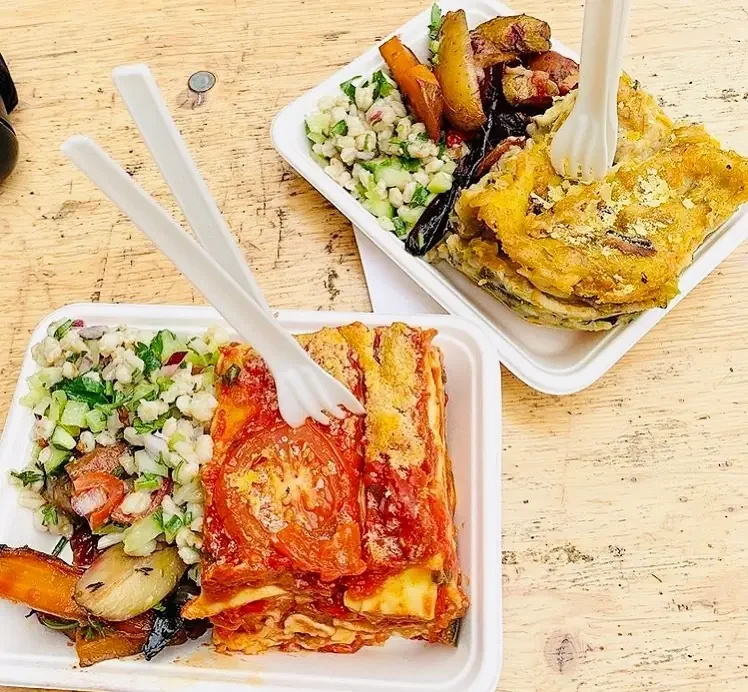
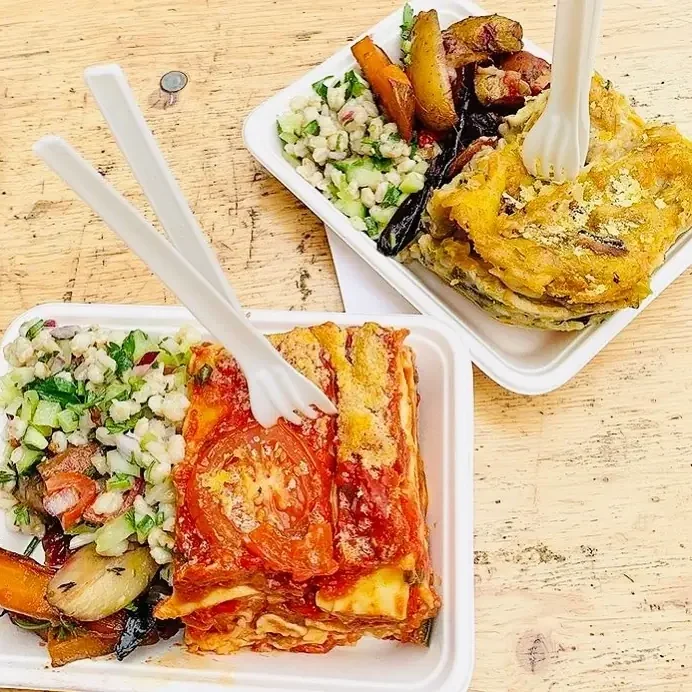
hmm

diff --git a/index.html b/index.html
@@ -73,7 +73,7 @@
       </div>
       <ol class="steps">
         <li class="zoom"><span class="num" aria-hidden="true">1</span><div class="photo"><img src="assets/img/main-box.webp" alt="A slice of spinach and courgette quiche topped with roast tomatoes, with slaw, broccoli and cauliflower" width="750" height="750" loading="lazy"></div><h3 class="h3">Pick a main</h3><p>Lasagna, spinach quiche, polenta bakes, parmigiana, stuffed veg (available in summer). Have it on its own, or with mixed salad.</p></li>
-        <li class="zoom"><span class="num" aria-hidden="true">2</span><div class="photo"><img src="assets/img/salad-box.webp" alt="Box of red cabbage slaw, carrot, mango, roast potatoes and coriander" width="672" height="752" loading="lazy"></div><h3 class="h3">Mix ’n match your salads</h3><p>Pick from our big range of salads, which are seasonal and all gluten free.</p></li>
+        <li class="zoom"><span class="num" aria-hidden="true">2</span><div class="photo"><img src="assets/img/salad-box.webp" alt="Box of red cabbage slaw, carrot, mango, roast potatoes and coriander" width="672" height="672" loading="lazy"></div><h3 class="h3">Mix ’n match your salads</h3><p>Pick from our big range of salads, which are seasonal and all gluten free.</p></li>
         <li class="zoom"><span class="num" aria-hidden="true">3</span><div class="photo"><video data-auto muted loop playsinline preload="none" poster="assets/img/poster-cakes.webp" data-src="assets/video/cakes.mp4" aria-label="Slices of gluten-free vegan pumpkin brownie topped with cream on the cake counter"></video></div><h3 class="h3">Finish with cake</h3><p>A slice from the counter. Every cake is labelled with its ingredients.</p></li>
       </ol>
     </div>
@@ -86,9 +86,9 @@
         <a class="btn btn--ghost" href="menu.html">Full menu and prices</a>
       </div>
       <ul class="food">
-        <li class="zoom"><div class="photo"><img src="assets/img/two-lasagne.webp" alt="Two boxes of vegan lasagna with salads" width="748" height="748" loading="lazy"></div><div class="row"><h3>Vegan lasagna</h3><span class="price">£9 / £12</span></div></li>
-        <li class="zoom"><div class="photo"><img src="assets/img/parmigiana.webp" alt="Vegan parmigiana with roast vegetables" width="937" height="1171" loading="lazy"></div><div class="row"><h3>Classic Parmigiana</h3><span class="price">£9 / £12</span></div></li>
-        <li class="zoom"><div class="photo"><img src="assets/img/quiche-slice.webp" alt="Slice of spinach quiche" width="1600" height="1093" loading="lazy"></div><div class="row"><h3>Spinach quiche</h3><span class="price">£6 / £9</span></div></li>
+        <li class="zoom"><div class="photo"><img src="assets/img/two-lasagne.webp" alt="Two boxes of vegan lasagna with salads" width="692" height="692" loading="lazy"></div><div class="row"><h3>Vegan lasagna</h3><span class="price">£9 / £12</span></div></li>
+        <li class="zoom"><div class="photo"><img src="assets/img/parmigiana.webp" alt="Vegan parmigiana with roast vegetables" width="900" height="900" loading="lazy"></div><div class="row"><h3>Classic Parmigiana</h3><span class="price">£9 / £12</span></div></li>
+        <li class="zoom"><div class="photo"><img src="assets/img/quiche-slice.webp" alt="Slice of spinach quiche" width="900" height="900" loading="lazy"></div><div class="row"><h3>Spinach quiche</h3><span class="price">£6 / £9</span></div></li>
         <li class="zoom"><div class="photo"><img src="assets/img/spring-rolls.webp" alt="A spring roll cut open to show the crisp vegetable filling" width="900" height="900" loading="lazy"></div><div class="row"><h3>Spring rolls</h3><span class="price">£2.5</span></div></li>
       </ul>
     </div>
@@ -109,27 +109,29 @@
     <div class="wrap cake-wrap">
       <div class="cake-stage">
         <svg class="cake-ring" viewBox="0 0 100 100" aria-hidden="true"><circle cx="50" cy="50" r="49" pathLength="330"/></svg>
-        <figure class="is-active"><img src="assets/img/pumpkin-brownie.webp" alt="Pumpkin brownie slices topped with cream" loading="lazy"></figure>
-        <figure><img src="assets/img/mango-coconut.webp" alt="Mango cake topped with cream, fresh mango and grated chocolate" loading="lazy"></figure>
-        <figure><img src="assets/img/lemon-rosemary.webp" alt="Lemon and rosemary cake decorated with lemon slices and rosemary flowers" loading="lazy"></figure>
-        <figure><img src="assets/img/pistachio-raspberry.webp" alt="Pistachio sponge with chocolate topping, raspberry filling and fresh raspberries" loading="lazy"></figure>
-        <figure><img src="assets/img/green-tea-fruit.webp" alt="Green tea sponge layered with cream and topped with strawberries and blueberries" loading="lazy"></figure>
-        <figure><img src="assets/img/apple-almond-cake.webp" alt="Apple, cinnamon and almond cake" loading="lazy"></figure>
-        <figure><img src="assets/img/blackberry-cake.webp" alt="Blackberry and rhubarb cake topped with blackberries and blueberries" loading="lazy"></figure>
-        <figure><img src="assets/img/plum-tart.webp" alt="Plum tart with fanned fruit" loading="lazy"></figure>
+        <figure class="is-active"><img src="assets/img/pumpkin-brownie.webp" alt="A slice of pumpkin brownie topped with whipped cream" width="900" height="900" loading="lazy"></figure>
+        <figure><img src="assets/img/mango-coconut.webp" alt="Mango cake topped with cream, fresh mango and grated chocolate" width="900" height="900" loading="lazy"></figure>
+        <figure><img src="assets/img/lemon-rosemary.webp" alt="Lemon and rosemary cake decorated with lemon slices and rosemary flowers" width="900" height="900" loading="lazy"></figure>
+        <figure><img src="assets/img/pistachio-raspberry.webp" alt="Pistachio sponge with chocolate topping, raspberry filling and fresh raspberries" width="900" height="900" loading="lazy"></figure>
+        <figure><img src="assets/img/green-tea-fruit.webp" alt="Green tea sponge layered with cream and topped with strawberries and blueberries" width="900" height="900" loading="lazy"></figure>
+        <figure><img src="assets/img/chocolate-raspberry.webp" alt="A slice of chocolate cake topped with ganache and raspberries" width="900" height="900" loading="lazy"></figure>
+        <figure><img src="assets/img/apple-almond-cake.webp" alt="Apple, cinnamon and almond cake" width="900" height="900" loading="lazy"></figure>
+        <figure><img src="assets/img/blackberry-cake.webp" alt="Blackberry and rhubarb cake topped with blackberries and blueberries" width="900" height="900" loading="lazy"></figure>
+        <figure><img src="assets/img/plum-tart.webp" alt="Plum tart with fanned fruit" width="900" height="900" loading="lazy"></figure>
       </div>
       <div>
         <h2 class="h2">Save room <em>for cake</em></h2>
         <p class="lede" style="margin-top:1.2rem">Generous vegan cakes and fruit tarts. The line-up changes every weekend; these have all made an appearance.</p>
         <ul class="cake-list" aria-label="Cakes: choose one to see it">
-          <li><button type="button" aria-pressed="true"><span>Pumpkin brownie (gluten free)</span><small>Gluten free</small></button></li>
-          <li><button type="button" aria-pressed="false"><span>Mango coconut</span><small>Gluten, soy milk</small></button></li>
-          <li><button type="button" aria-pressed="false"><span>Lemon &amp; rosemary</span><small>Ask at the stall</small></button></li>
-          <li><button type="button" aria-pressed="false"><span>Pistachio &amp; raspberry</span><small>Ask at the stall</small></button></li>
-          <li><button type="button" aria-pressed="false"><span>Green tea &amp; fresh fruits</span><small>Ask at the stall</small></button></li>
-          <li><button type="button" aria-pressed="false"><span>Apple, cinnamon &amp; almond (gluten free)</span><small>Soy milk</small></button></li>
-          <li><button type="button" aria-pressed="false"><span>Blackberry &amp; rhubarb</span><small>Ask at the stall</small></button></li>
-          <li><button type="button" aria-pressed="false"><span>Plum tart</span><small>Ask at the stall</small></button></li>
+          <li><button type="button" aria-pressed="true"><span>Pumpkin brownie</span><small>Gluten free</small></button></li>
+          <li><button type="button" aria-pressed="false"><span>Mango coconut</span><small>Contains gluten</small></button></li>
+          <li><button type="button" aria-pressed="false"><span>Lemon &amp; rosemary</span><small>Contains gluten</small></button></li>
+          <li><button type="button" aria-pressed="false"><span>Pistachio &amp; raspberry</span><small>Contains gluten</small></button></li>
+          <li><button type="button" aria-pressed="false"><span>Green tea &amp; fresh fruits</span><small>Contains gluten</small></button></li>
+          <li><button type="button" aria-pressed="false"><span>Chocolate &amp; raspberry</span><small>Contains gluten</small></button></li>
+          <li><button type="button" aria-pressed="false"><span>Apple, cinnamon &amp; almond</span><small>Gluten free</small></button></li>
+          <li><button type="button" aria-pressed="false"><span>Blackberry &amp; rhubarb</span><small>Contains gluten</small></button></li>
+          <li><button type="button" aria-pressed="false"><span>Plum tart</span><small>Contains gluten</small></button></li>
         </ul>
         <p class="price-note">Slices £2.5 – £6</p>
       </div>
@@ -144,14 +146,14 @@
       </div>
       <ul class="offers">
         <li class="offer zoom">
-          <div class="photo"><img src="assets/img/private-catering.webp" alt="A private catering spread of canapés, polenta bites, bruschetta, fruit and layered cakes" width="1200" height="900" loading="lazy"></div>
+          <div class="photo"><img src="assets/img/private-catering.webp" alt="A private catering spread of canapés, polenta bites, bruschetta, fruit and layered cakes" width="900" height="900" loading="lazy"></div>
           <div class="offer-text">
             <h3 class="h3">Parties &amp; events</h3>
             <p>Generous trays of mains, bowls of salads and platters of spring rolls, all homemade and 100% vegan. Perfect for birthdays, gatherings and work events.</p>
           </div>
         </li>
         <li class="offer zoom">
-          <div class="photo photo--fade"><img src="assets/img/celebration-cake1.webp" alt="A layered chocolate celebration cake piled with berries and cherries" loading="lazy"><img src="assets/img/celebration-cake2.webp" alt="A cream-filled celebration cake topped with fresh berries and cherries" loading="lazy"><img src="assets/img/celebration-cake3.webp" alt="A two-tier celebration cake with strawberries, blueberries and flowers" loading="lazy"></div>
+          <div class="photo photo--fade"><img src="assets/img/celebration-layered.webp" alt="A layered chocolate celebration cake piled with berries and cherries" width="900" height="900" loading="lazy"><img src="assets/img/celebration-flowers.webp" alt="A two-tier celebration cake decorated with roses and fresh herbs" width="900" height="900" loading="lazy"><img src="assets/img/celebration-berries.webp" alt="A cream-filled celebration cake topped with fresh berries and cherries" width="900" height="900" loading="lazy"></div>
           <div class="offer-text">
             <h3 class="h3">Celebration cakes</h3>
             <p>Order a whole cake for a birthday or special occasion. Ask Kaya about flavours and gluten-free options.</p>

diff --git a/menu.html b/menu.html
@@ -41,20 +41,20 @@
     </div>
   </section>
 
-  <div class="wrap"><div class="banner"><img src="assets/img/sign-bunting.webp" alt="The Vegan Garden sign with bunting and the menu board hanging beside it" width="2000" height="1506"></div></div>
+  <div class="wrap"><div class="banner"><img src="assets/img/sign-bunting.webp" alt="The Vegan Garden sign with bunting and the menu board hanging beside it" width="1500" height="1000"></div></div>
 
   <section class="section">
     <div class="wrap menu-board">
       <ul class="mitems">
           <li class="mitem"><div class="thumb"><img src="assets/img/lasagne-chickpea.webp" alt="" width="72" height="72" loading="lazy"></div><div><h3>Vegan lasagna </h3><p>Made with nutritional yeast</p></div><div class="mprice">£9<span class="sep">/</span>£12<small>with 2 salads</small></div></li>
-          <li class="mitem"><div class="thumb"><img src="assets/img/quiche-slice.webp" alt="" width="72" height="72" loading="lazy"></div><div><h3>Spinach quiche </h3><p>A deep slice, with plenty of greens</p></div><div class="mprice">£6<span class="sep">/</span>£9<small>with 2 salads</small></div></li>
+          <li class="mitem"><div class="thumb"><img src="assets/img/quiche-box.webp" alt="" width="72" height="72" loading="lazy"></div><div><h3>Spinach quiche </h3><p>A deep slice, with plenty of greens</p></div><div class="mprice">£6<span class="sep">/</span>£9<small>with 2 salads</small></div></li>
           <li class="mitem"><div class="thumb"><img src="assets/img/beans-mushroom-tray.webp" alt="" width="72" height="72" loading="lazy"></div><div><h3>Polenta bake </h3><p>Look out for the mushroom polenta</p></div><div class="mprice">£6<span class="sep">/</span>£9<small>with 2 salads</small></div></li>
-          <li class="mitem"><div class="thumb"><img src="assets/img/parmigiana.webp" alt="" width="72" height="72" loading="lazy"></div><div><h3>Classic Parmigiana </h3><p>Layered aubergine, the vegan way</p></div><div class="mprice">£9<span class="sep">/</span>£12<small>with 2 salads</small></div></li>
+          <li class="mitem"><div class="thumb"><img src="assets/img/parmigiana-box.webp" alt="" width="72" height="72" loading="lazy"></div><div><h3>Classic Parmigiana </h3><p>Layered aubergine, the vegan way</p></div><div class="mprice">£9<span class="sep">/</span>£12<small>with 2 salads</small></div></li>
           <li class="mitem"><div class="thumb"><img src="assets/img/salad-plate.webp" alt="" width="72" height="72" loading="lazy"></div><div><h3>Selection of salads </h3><p>Cold, raw, cooked or roast veg</p></div><div class="mprice">£6<span class="sep">/</span>£9<small>small / large</small></div></li>
           <li class="mitem"><div class="thumb"><img src="assets/img/tart-tomato-box.webp" alt="" width="72" height="72" loading="lazy"></div><div><h3>Roasted stuffed veg <span class="tag tag--sum">Summer</span></h3><p>Aubergine or pepper, summer only</p></div><div class="mprice">£9<span class="sep">/</span>£12<small>with 2 salads</small></div></li>
           <li class="mitem"><div class="thumb"><img src="assets/img/stall-trays.webp" alt="" width="72" height="72" loading="lazy"></div><div><h3>Super vegan soup <span class="tag tag--win">Winter</span></h3><p>Available through the winter</p></div><div class="mprice">£4.5<span class="sep">/</span>£9<small>with 2 salads</small></div></li>
-          <li class="mitem"><div class="thumb"><img src="assets/img/cakes-display.webp" alt="" width="72" height="72" loading="lazy"></div><div><h3>Selection of cakes </h3><p>Allergens are on each cake’s label</p></div><div class="mprice">£2.5–£6<small>per slice</small></div></li>
-          <li class="mitem"><div class="thumb"><img src="assets/img/spring-rolls.webp" alt="" width="72" height="72" loading="lazy"></div><div><h3>Spring rolls </h3><p>Crisp, golden and stuffed with veg</p></div><div class="mprice">£2.5</div></li>
+          <li class="mitem"><div class="thumb"><img src="assets/img/cakes-display.webp" alt="" width="72" height="72" loading="lazy"></div><div><h3>Selection of cakes </h3><p>Each cake is labelled with its ingredients</p></div><div class="mprice">£2.5–£6<small>per slice</small></div></li>
+          <li class="mitem"><div class="thumb"><img src="assets/img/spring-rolls-stall.webp" alt="" width="72" height="72" loading="lazy"></div><div><h3>Spring rolls </h3><p>Crisp, golden and stuffed with veg</p></div><div class="mprice">£2.5</div></li>
       </ul>
       <aside class="board-aside">
         <div class="card">
@@ -78,15 +78,13 @@
         <h2 class="h2">From the <em>cake counter</em></h2>
         <p class="lede">Fruit tarts and sponges, £2.5 to £6 a slice. What’s on changes each weekend.</p>
       </div>
-      <ul class="food">
-        <li class="zoom"><div class="photo"><img src="assets/img/mango-coconut.webp" alt="Mango coconut cake" loading="lazy"></div><div class="row"><h3>Mango coconut</h3></div><small>Allergens: Gluten, soy milk</small></li>
-        <li class="zoom"><div class="photo"><img src="assets/img/apple-almond-cake.webp" alt="Apple, cinnamon &amp; almond (gluten free) cake" loading="lazy"></div><div class="row"><h3>Apple, cinnamon &amp; almond (gluten free)</h3></div><small>Allergens: Soy milk</small></li>
-        <li class="zoom"><div class="photo"><img src="assets/img/raspberry-choc.webp" alt="Chocolate &amp; raspberry" loading="lazy"></div><div class="row"><h3>Chocolate &amp; raspberry</h3></div><small>Allergens on the label</small></li>
-        <li class="zoom"><div class="photo"><img src="assets/img/pistachio-tart.webp" alt="Pistachio tart" loading="lazy"></div><div class="row"><h3>Pistachio tart</h3></div><small>Allergens on the label</small></li>
-        <li class="zoom"><div class="photo"><img src="assets/img/plum-tart.webp" alt="Plum tart" loading="lazy"></div><div class="row"><h3>Plum tart</h3></div><small>Allergens on the label</small></li>
-        <li class="zoom"><div class="photo"><img src="assets/img/peach-cake.webp" alt="Peach cake" loading="lazy"></div><div class="row"><h3>Peach cake</h3></div><small>Allergens on the label</small></li>
-        <li class="zoom"><div class="photo"><img src="assets/img/blueberry-slice.webp" alt="Blueberry cake" loading="lazy"></div><div class="row"><h3>Blueberry cake</h3></div><small>Allergens on the label</small></li>
-        <li class="zoom"><div class="photo"><img src="assets/img/raspberry-slice.webp" alt="Raspberry glaze" loading="lazy"></div><div class="row"><h3>Raspberry glaze</h3></div><small>Allergens on the label</small></li>
+      <ul class="food food--3">
+        <li class="zoom"><div class="photo"><img src="assets/img/raspberry-choc.webp" alt="Chocolate &amp; raspberry" loading="lazy"></div><div class="row"><h3>Chocolate &amp; raspberry</h3></div><small>Contains gluten</small></li>
+        <li class="zoom"><div class="photo"><img src="assets/img/pistachio-tart.webp" alt="Pistachio tart" loading="lazy"></div><div class="row"><h3>Pistachio tart</h3></div><small>Contains gluten</small></li>
+        <li class="zoom"><div class="photo"><img src="assets/img/peach-cake.webp" alt="Peach cake" loading="lazy"></div><div class="row"><h3>Peach cake</h3></div><small>Contains gluten</small></li>
+        <li class="zoom"><div class="photo"><img src="assets/img/blueberry-slice.webp" alt="Blueberry cake" loading="lazy"></div><div class="row"><h3>Blueberry cake</h3></div><small>Contains gluten</small></li>
+        <li class="zoom"><div class="photo"><img src="assets/img/raspberry-slice.webp" alt="Raspberry glaze" loading="lazy"></div><div class="row"><h3>Raspberry glaze</h3></div><small>Contains gluten</small></li>
+        <li class="zoom"><div class="photo"><img src="assets/img/plum-slices.webp" alt="Plum tart" loading="lazy"></div><div class="row"><h3>Plum tart</h3></div><small>Contains gluten</small></li>
       </ul>
     </div>
   </section>

diff --git a/css/style.css b/css/style.css
@@ -191,7 +191,8 @@ button{font:inherit;color:inherit;cursor:pointer}
 .food .price{font-family:var(--d-font);font-style:var(--em-style);white-space:nowrap;color:var(--text-soft)}
 .food small{display:block;color:var(--text-soft);font-size:.85rem;margin-top:.15rem}
 .on-dark .food .price,.on-dark .food small{color:var(--on-dark-soft)}
-@media (max-width:900px){.food{grid-template-columns:repeat(2,minmax(0,1fr))}}
+.food--3{grid-template-columns:repeat(3,minmax(0,1fr))}
+@media (max-width:900px){.food,.food--3{grid-template-columns:repeat(2,minmax(0,1fr))}}
 @media (max-width:620px){.food h3{font-size:1.1rem}.food .row{flex-direction:column;gap:2px}}
 
 /* cake counter: one image cross-fades, the names act as controls */
@@ -246,9 +247,8 @@ button{font:inherit;color:inherit;cursor:pointer}
 .page-hero .display{margin:0 0 1.4rem}
 .page-hero .row{display:flex;justify-content:space-between;align-items:flex-end;gap:20px 30px;flex-wrap:wrap}
 @media (max-width:820px){.page-hero{padding-top:calc(var(--head-h) + env(safe-area-inset-top) + 80px)}}
-.banner{border-radius:calc(var(--r) + 6px);overflow:hidden;aspect-ratio:16/9;background:var(--bg-3);-webkit-mask-image:-webkit-radial-gradient(white,black)}
+.banner{border-radius:calc(var(--r) + 6px);overflow:hidden;aspect-ratio:3/2;background:var(--bg-3);-webkit-mask-image:-webkit-radial-gradient(white,black)}
 .banner img{width:100%;height:100%;object-fit:cover}
-@media (max-width:620px){.banner{aspect-ratio:4/3}}
 
 /* ---------- menu page ---------- */
 .menu-board{display:grid;grid-template-columns:minmax(0,1fr) 330px;gap:clamp(32px,5vw,72px);align-items:start}
@@ -346,9 +346,9 @@ button{font:inherit;color:inherit;cursor:pointer}
 
 /* ---------- catering & celebration cakes ---------- */
 .offers{list-style:none;margin:0;padding:0;display:grid;grid-template-columns:repeat(2,minmax(0,1fr));gap:clamp(18px,3vw,32px)}
-.offer{position:relative;background:var(--bg-2);border-radius:var(--r);overflow:hidden;display:grid;grid-template-columns:minmax(0,.9fr) minmax(0,1.1fr)}
-.offer .photo{border-radius:0;height:100%;min-height:240px}
-.offer-text{padding:clamp(22px,3vw,36px);align-self:center}
+.offer{position:relative;background:var(--bg-2);border-radius:var(--r);overflow:hidden;display:grid;grid-template-columns:minmax(0,1fr) minmax(0,1fr);align-items:center;padding:14px;gap:4px}
+.offer .photo{border-radius:calc(var(--r) - 8px);aspect-ratio:1/1}
+.offer-text{padding:clamp(14px,2vw,26px);align-self:center}
 .offer-text .h3{margin-bottom:.6rem}
 .offer-text p{margin:0;color:var(--text-soft)}
 .offer-cta{margin-top:clamp(24px,3vw,36px);background:var(--dark);color:var(--on-dark);border-radius:var(--r);padding:clamp(22px,3vw,32px) clamp(22px,4vw,44px);display:flex;align-items:center;justify-content:space-between;gap:18px 32px;flex-wrap:wrap}
@@ -356,7 +356,7 @@ button{font:inherit;color:inherit;cursor:pointer}
 .offer-cta .btn{background:var(--em-on-dark);color:var(--dark);border-color:var(--em-on-dark)}
 .offer-cta .btn--ghost{background:transparent;color:var(--on-dark);border-color:var(--on-dark-line)}
 @media (max-width:1000px){.offers{grid-template-columns:minmax(0,1fr)}}
-@media (max-width:560px){.offer{grid-template-columns:minmax(0,1fr)}.offer .photo{aspect-ratio:4/3;min-height:0}}
+@media (max-width:560px){.offer{grid-template-columns:minmax(0,1fr)}}
 
 .photo--fade{position:relative}
 .photo--fade img{position:absolute;inset:0;width:100%;height:100%;object-fit:cover;opacity:0;animation:fade3 12s infinite}
